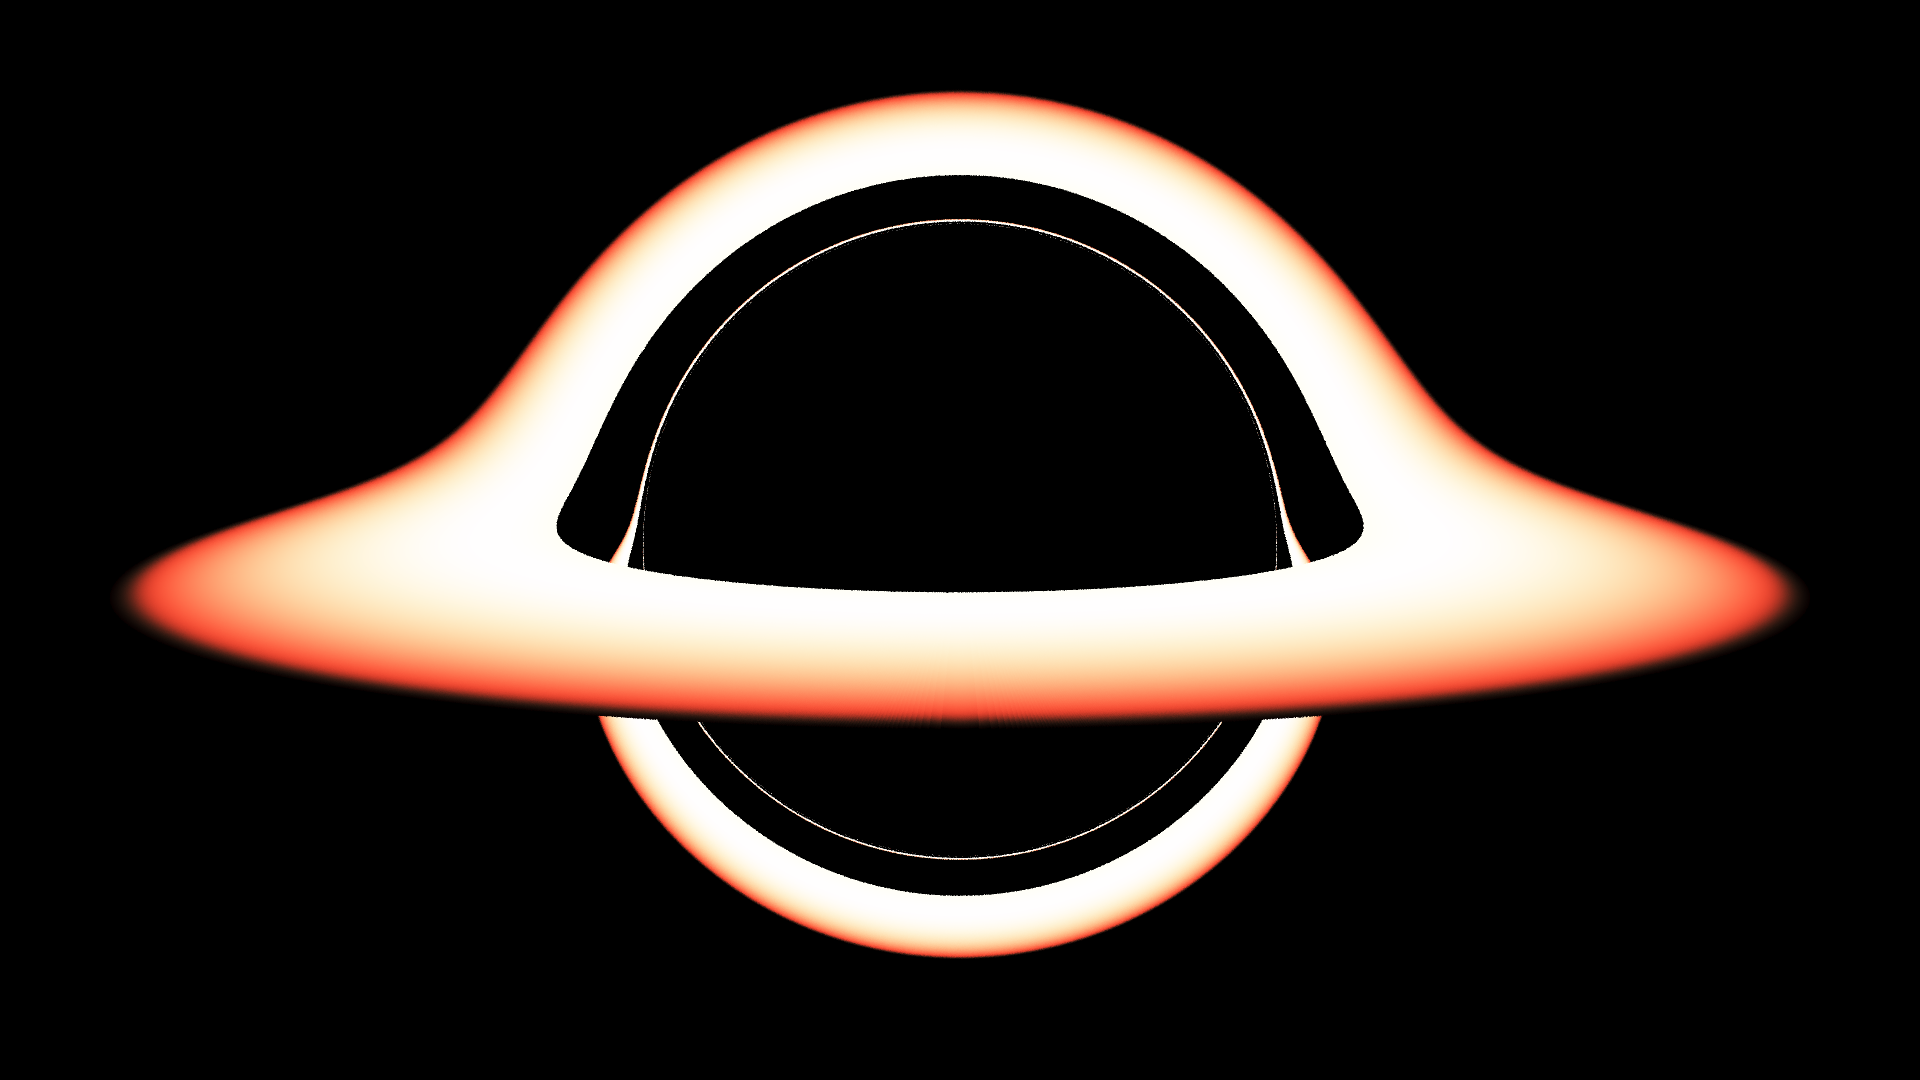
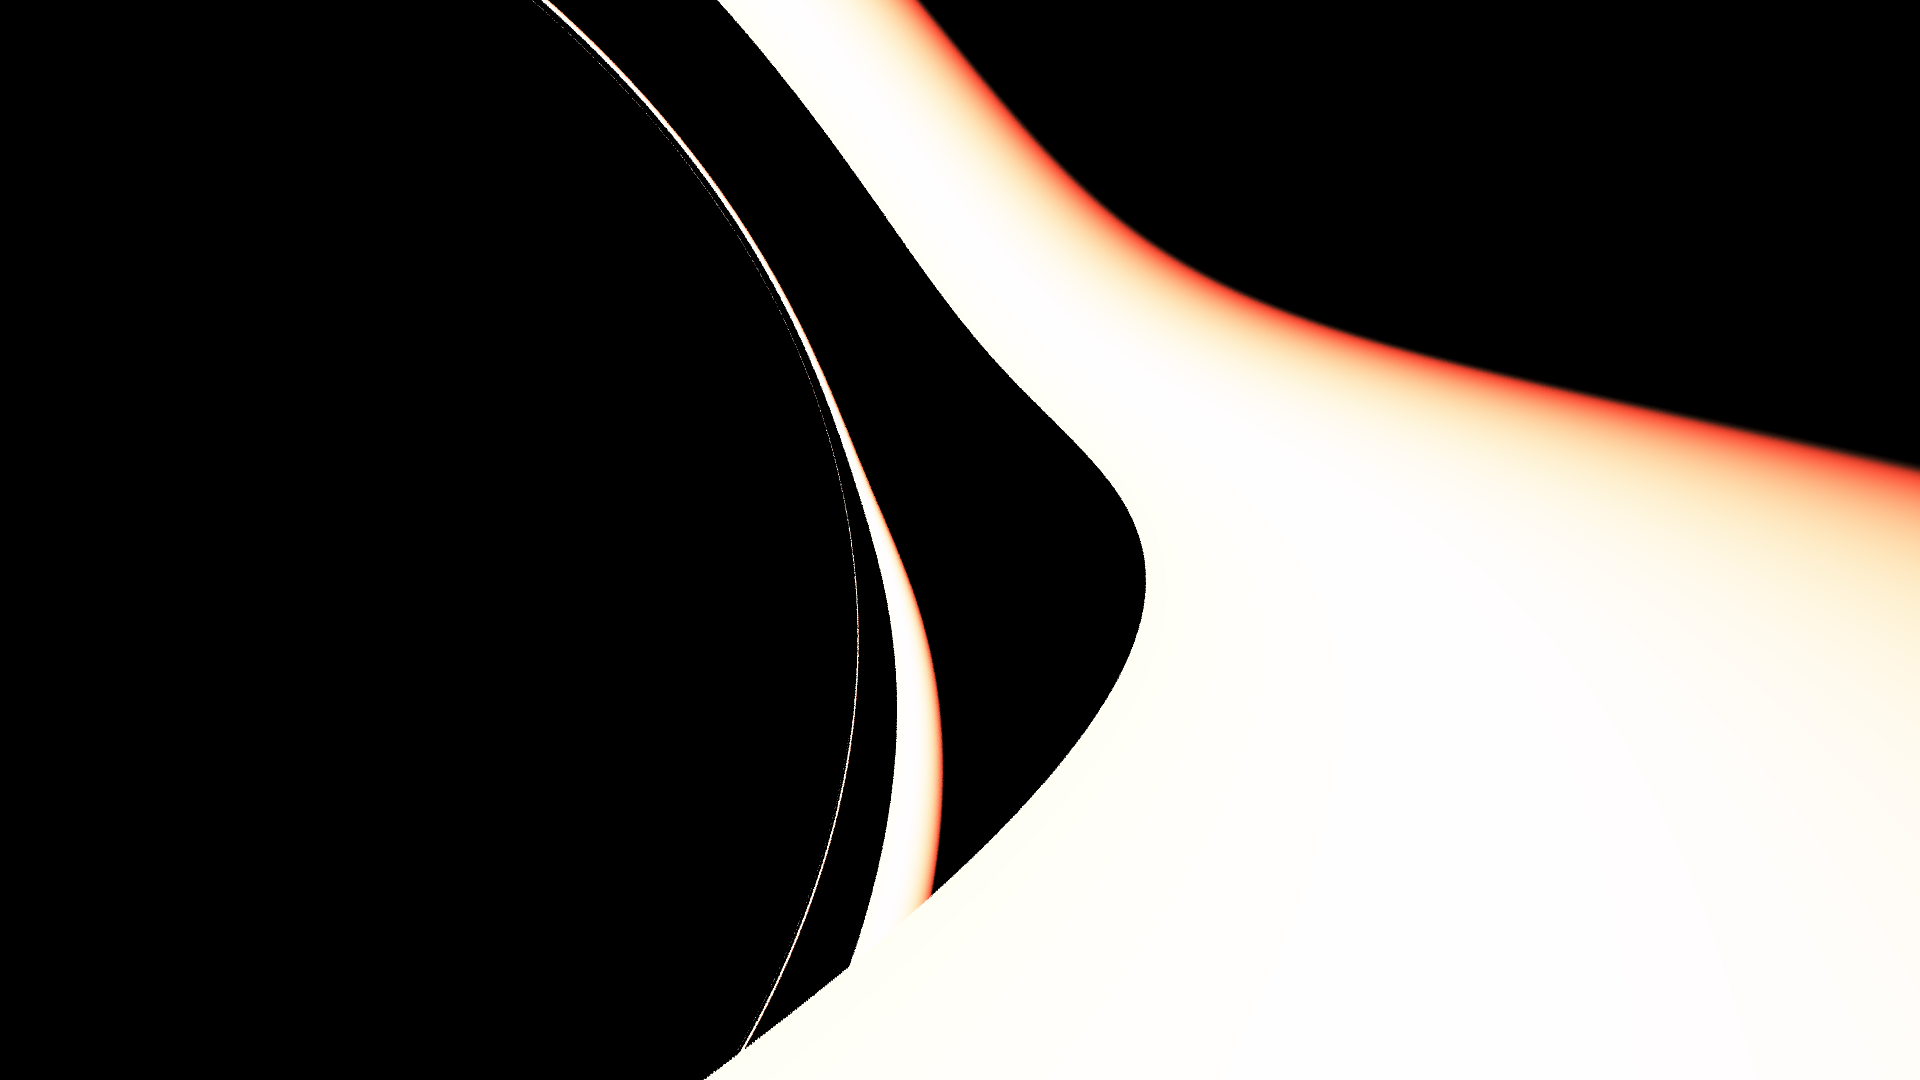
Use new disk model

diff --git a/src/gr.cpp b/src/gr.cpp
@@ -8,6 +8,16 @@ inline double floorMod(double x, double y) {
     return x - y * floor(x / y);
 }
 
+// 临时放置的吸积盘函数
+// 之后应该会抽象成一个类，并通过物理模型计算吸积盘颜色
+Eigen::Vector3d diskColor(double rMin, double rMax, double r) {
+    double k = 2.5 / (rMax - rMin);
+    double b = (5.0 * (rMin - 0.5 * rMax)) / (rMin - rMax);
+    double rN = k * r + b;
+    return Eigen::Vector3d(1.0 / (exp((rN-4.9) / 0.03) + 1), 2.0 / (exp((rN-5) / 0.3) + 1) -1, -pow(rN+3,3) * (rN-5)/432);
+}
+
+
 Ray::Ray(Eigen::Vector3d origin, Eigen::Vector3d direction) {
     this->origin = origin;
     this->direction = direction;
@@ -47,11 +57,15 @@ Color Ray::getRayColor() {
         if (r > 500) break;
         if (r < 0.01) break;
         if (((phi - accre_phi1) * (phi - dphi - accre_phi1) <= 0) or ((phi - accre_phi2) * (phi - dphi - accre_phi2) <= 0)) { // 如果穿越吸积盘
-            if (2.5 < r && r < 5) {
-                // TODO: 这里应该是计算吸积盘颜色，应单独调用吸积盘函数
-                color += Eigen::Vector3d(1.0 / (exp((r-4.9) / 0.03) + 1), 2.0 / (exp((r-5) / 0.3) + 1) -1, -pow(r+3,3) * (r-5)/432);
+            if (3 < r && r < 7) {
+                color += diskColor(3, 7, r);
                 break;
             }
+            /*if (2.5 < r && r < 5) {*/
+            /*    // TODO: 这里应该是计算吸积盘颜色，应单独调用吸积盘函数*/
+            /*    color += Eigen::Vector3d(1.0 / (exp((r-4.9) / 0.03) + 1), 2.0 / (exp((r-5) / 0.3) + 1) -1, -pow(r+3,3) * (r-5)/432);*/
+            /*    break;*/
+            /*}*/
         }
     }
     return color;
@@ -61,8 +75,8 @@ void Camera::setupCamera() {
     // TODO: 实现摄像机参数设置
     this->fov = 60; // NOTE: 临时设置 
     this->aspectRatio = 16.0/9.0; // NOTE: 临时设置 
-    this->lookFrom << 5.0, 1.0, 0.0;
-    this->lookAt << 2.0, 0.0, -3.0;
+    this->lookFrom << 0.0, 1.0, 4.0;
+    this->lookAt << 3.0, 0.0, 1.0;
     /*this->lookFrom << 0.0, 0.3, 3.0;*/
     /*this->lookAt << 0.9, 0.2, 0.0;*/
     this->viewUp << 0.0, 1.0, 0.0;

diff --git a/src/main.cpp b/src/main.cpp
@@ -11,7 +11,7 @@
 #define IMAGE_WIDTH 1920
 #define IMAGE_HEIGHT ((int)(IMAGE_WIDTH/ASPECT_RATIO))
 #define SAMPLE_PER_PIXEL 4 // 单个像素的采样次数
-#define SAVE_PATH "figure_1920x1080.ppm"
+#define SAVE_PATH "figure_test.ppm"
 
 // 渲染图像
 int main() {
